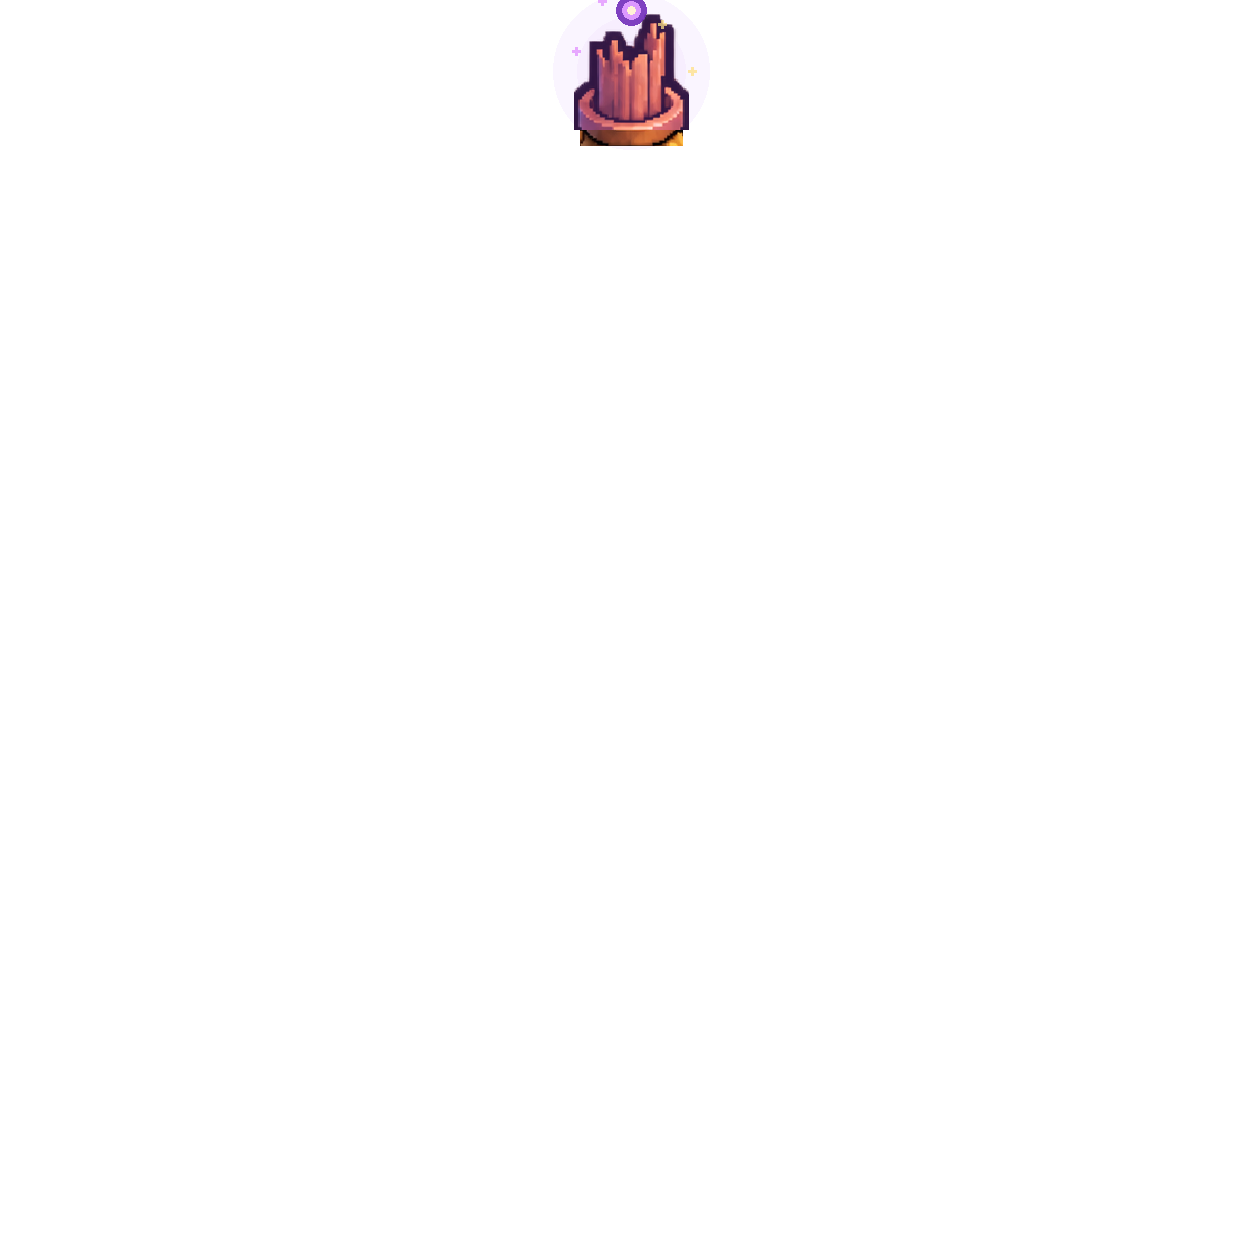
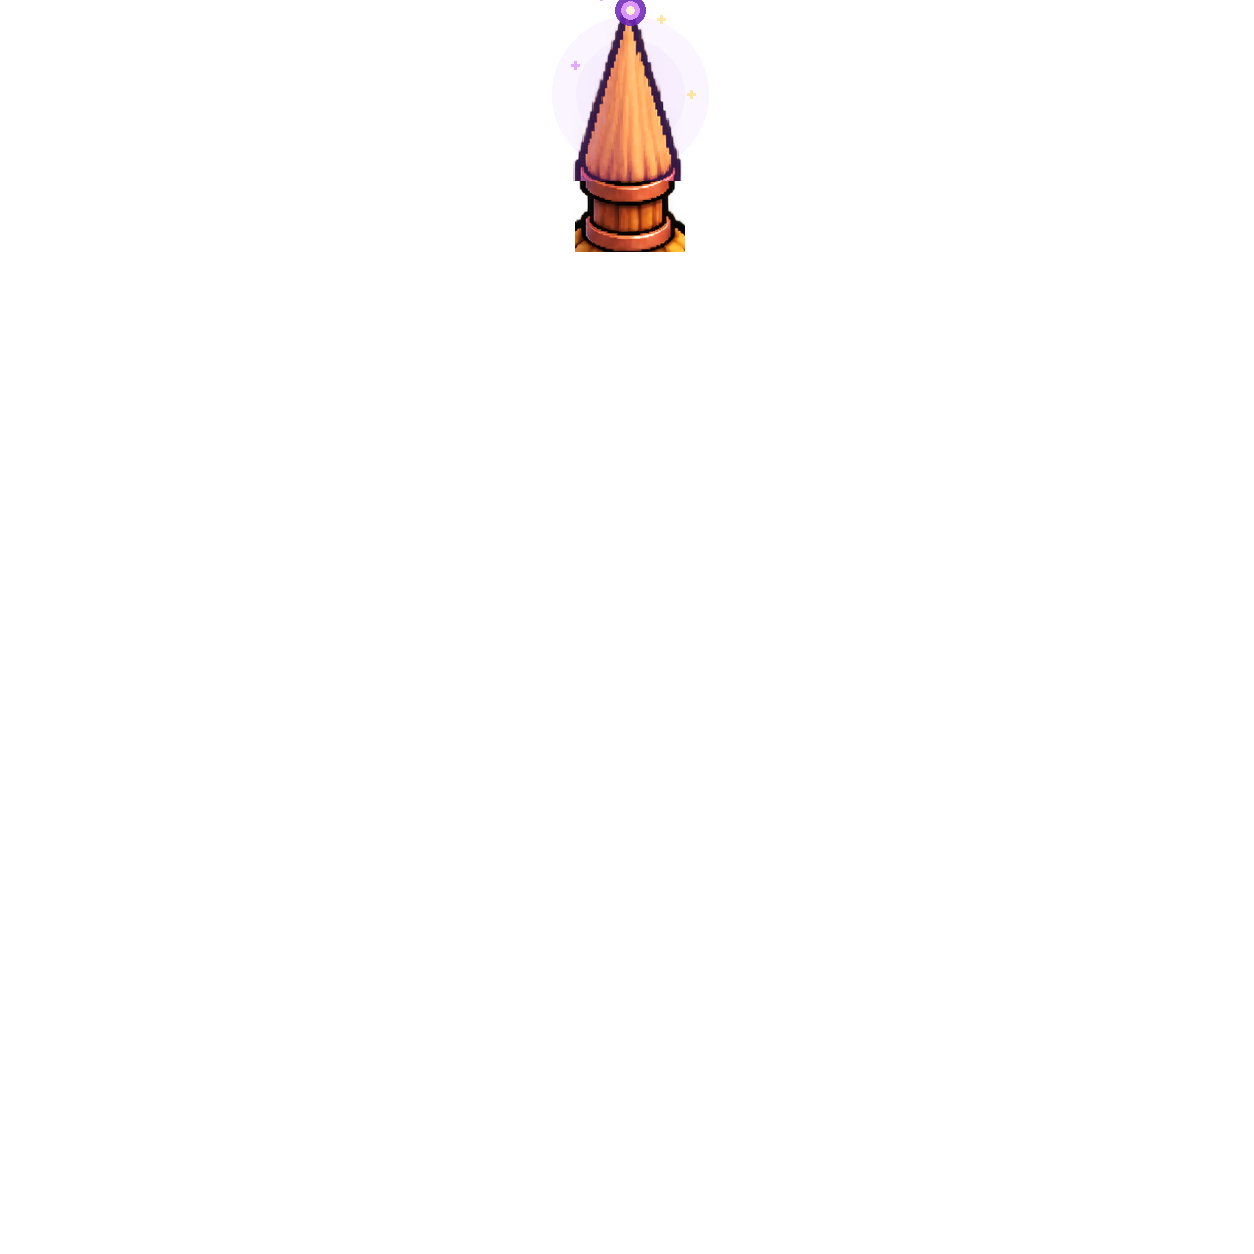
Replace first mage tower with repaired straw stage

Changed region(s): [[0.4354, 0.0, 0.5598, 0.2177]]

diff --git a/game/game.js b/game/game.js
@@ -110,9 +110,9 @@
     {name:'Сланцевая',damage:112,range:286,rate:.48,cost:300}
   ];
   // Mage tower: slower, heavier magic bolts that also splash enemies standing next to the target.
-  // Art: towers/mage/level-N (built from the drawings 0,1,2,3,5 in source/towers/mage).
+  // Art: first mage stage uses the repaired straw tower; stages 2–5 use drawings 1,2,3,5.
   const mageData = [null,
-    {name:'Ветхая',damage:30,range:172,rate:1.45,cost:100,splash:44},
+    {name:'Соломенная',damage:30,range:172,rate:1.45,cost:100,splash:44},
     {name:'Замшелая',damage:48,range:192,rate:1.33,cost:110,splash:52},
     {name:'Чародейская',damage:74,range:212,rate:1.22,cost:160,splash:60},
     {name:'Сланцевая',damage:108,range:232,rate:1.1,cost:230,splash:68},

diff --git a/source/towers/mage/build_modular.py b/source/towers/mage/build_modular.py
@@ -1,8 +1,8 @@
 """Split the five aligned mage sprites into four lossless layers and glow frames.
 
 Editable material lives in source/towers/mage/ (this script, pixel-v3/ drawings,
-modular/ layers and previews). The files the game loads are written to
-game/towers/mage/level-N/, where N is the game level 1–5 (drawings 0,1,2,3,5).
+modular/ layers and previews). Drawings 1,2,3,5 are written to game levels 2–5.
+The old drawing 0 remains in source; build_intermediate_modular.py creates game level 1.
 """
 
 from pathlib import Path
@@ -16,7 +16,7 @@ ROOT = Path(__file__).resolve().parent
 SOURCE = ROOT / "pixel-v3"
 OUTPUT = ROOT / "modular"
 GAME = ROOT.parents[2] / "game" / "towers" / "mage"
-GAME_LEVEL = {0: 1, 1: 2, 2: 3, 3: 4, 5: 5}   # drawing level -> game level
+GAME_LEVEL = {1: 2, 2: 3, 3: 4, 5: 5}   # old drawing 0 is archived in source, not used in game
 SIZE = (1254, 1254)
 LEVELS = (0, 1, 2, 3, 5)
 PARTS = ("01-base.png", "02-upper-room.png", "03-roof.png", "04-crystal.png")
@@ -108,7 +108,10 @@ def split(level):
     source = Image.open(source_path).convert("RGBA")
     if source.size != SIZE:
         raise ValueError(f"Unexpected canvas: {source_path}: {source.size}")
-    pixels = np.asarray(source)
+    pixels = np.asarray(source).copy()
+    # Generated transparent pixels can carry invisible RGB values. Normalize
+    # those bytes so compositing remains exact without changing visible art.
+    pixels[pixels[:, :, 3] == 0, :3] = 0
     y = np.arange(SIZE[1], dtype=np.int16)[:, None]
     config = SEAMS[level]
     roof_edge, base_edge = profile(config["roof"]), profile(config["base"])
@@ -141,13 +144,14 @@ def split(level):
     if not np.array_equal(np.asarray(assembled), pixels):
         raise AssertionError(f"Level {level} did not reassemble pixel for pixel")
     assembled.save(folder / "tower-assembled.png")
-    game = GAME / f"level-{GAME_LEVEL[level]}"
-    game.mkdir(parents=True, exist_ok=True)
-    for image, name in zip(images[:3], ("base.png", "upper.png", "roof.png")):
-        image.save(game / name)
-    for index in range(5):
-        shimmer(images[3], level, index).save(game / f"crystal-{index + 1:02d}.png")
-    assembled.save(game / "tower.png")
+    if level in GAME_LEVEL:
+        game = GAME / f"level-{GAME_LEVEL[level]}"
+        game.mkdir(parents=True, exist_ok=True)
+        for image, name in zip(images[:3], ("base.png", "upper.png", "roof.png")):
+            image.save(game / name)
+        for index in range(5):
+            shimmer(images[3], level, index).save(game / f"crystal-{index + 1:02d}.png")
+        assembled.save(game / "tower.png")
     return {name: bounds(image) for name, image in zip(PARTS, images)}
 
 
@@ -185,7 +189,7 @@ def main():
         "crystal_animation_frames": 5,
         "full_tower_animation_frames": 5,
         "level_0_note": "This earliest tower has a wooden finial rather than a crystal; its fourth layer is static.",
-        "reassembly": "Pixel-identical to each source PNG using the four static parts.",
+        "reassembly": "Pixel-identical after normalizing invisible RGB in fully transparent pixels.",
         "parts_visible_bbox_px_exclusive": records,
     }
     (OUTPUT / "manifest.json").write_text(json.dumps(manifest, ensure_ascii=False, indent=2) + "\n", encoding="utf-8")

diff --git a/source/towers/mage/build_intermediate_modular.py b/source/towers/mage/build_intermediate_modular.py
@@ -7,7 +7,9 @@ import numpy as np
 from PIL import Image, ImageDraw
 
 
-ROOT = Path(__file__).resolve().parent / "modular" / "level-intermediate"
+SOURCE_ROOT = Path(__file__).resolve().parent
+ROOT = SOURCE_ROOT / "modular" / "level-intermediate"
+GAME = SOURCE_ROOT.parents[2] / "game" / "towers" / "mage" / "level-1"
 SOURCE = ROOT / "tower-source.png"
 SIZE = (1254, 1254)
 NAMES = ("01-base.png", "02-upper-room.png", "03-roof.png", "04-spire.png")
@@ -103,6 +105,20 @@ def charge(spire, frame):
     return out
 
 
+def idle(spire, frame):
+    if frame in (0, 4):
+        return spire.copy()
+    strength = (0, .45, 1, .45, 0)[frame]
+    pixels = np.asarray(spire).copy()
+    rgb = pixels[:, :, :3].astype(np.float32)
+    yy = np.arange(SIZE[1])[:, None]
+    straw = (yy < SOCKET_TOP) & (pixels[:, :, 3] > 0) & (rgb[:, :, 0] > 110)
+    rgb[straw] += np.array((7, 4, 2)) * strength
+    pixels[:, :, :3] = np.clip(rgb, 0, 255).astype(np.uint8)
+    pixels[pixels[:, :, 3] == 0, :3] = 0
+    return Image.fromarray(pixels, "RGBA")
+
+
 def main():
     source = Image.open(SOURCE).convert("RGBA")
     if source.size != SIZE:
@@ -118,14 +134,24 @@ def main():
     if not np.array_equal(np.asarray(assembled), np.asarray(source)):
         raise AssertionError("Four parts did not reconstruct the source exactly")
     assembled.save(ROOT / "tower-assembled.png")
+    GAME.mkdir(parents=True, exist_ok=True)
+    for part, name in zip(parts[:3], ("base.png", "upper.png", "roof.png")):
+        part.save(GAME / name)
+    assembled.save(GAME / "tower.png")
 
     strip = Image.new("RGBA", (SIZE[0]*5, SIZE[1]))
     preview = Image.new("RGBA", (240*5, 360), "#20242e")
     for index in range(5):
+        idle_frame = idle(parts[3], index)
+        idle_path = ROOT / "spire-anim" / f"frame-{index+1:02d}.png"
+        idle_path.parent.mkdir(parents=True, exist_ok=True)
+        idle_frame.save(idle_path)
+        idle_frame.save(GAME / f"crystal-{index+1:02d}.png")
         spire = charge(parts[3], index)
         charge_path = ROOT / "spire-charge" / f"frame-{index+1:02d}.png"
         charge_path.parent.mkdir(parents=True, exist_ok=True)
         spire.save(charge_path)
+        spire.save(GAME / f"charge-{index+1:02d}.png")
         tower = Image.new("RGBA", SIZE)
         for part in parts[:3]:
             tower.alpha_composite(part)

diff --git a/source/towers/mage/build_crystal_charge.py b/source/towers/mage/build_crystal_charge.py
@@ -8,7 +8,7 @@ from PIL import Image, ImageDraw
 
 ROOT = Path(__file__).resolve().parent
 GAME = ROOT.parents[2] / "game" / "towers" / "mage"
-LEVELS = {0: 1, 1: 2, 2: 3, 3: 4, 5: 5}
+LEVELS = {0: None, 1: 2, 2: 3, 3: 4, 5: 5}
 SOCKET_TOP = {0: 130, 1: 147, 2: 119, 3: 173, 5: 198}
 SCALES = (1.0, 1.08, 1.17, 1.27, 1.12)
 ENERGY = (0.0, 0.23, 0.46, 0.76, 1.0)
@@ -80,13 +80,15 @@ def main() -> None:
         original = Image.open(src).convert("RGBA")
         output = ROOT / "modular" / f"level-{source_level}" / "crystal-charge"
         output.mkdir(parents=True, exist_ok=True)
-        game = GAME / f"level-{game_level}"
-        game.mkdir(parents=True, exist_ok=True)
+        game = GAME / f"level-{game_level}" if game_level else None
+        if game:
+            game.mkdir(parents=True, exist_ok=True)
         sheet = Image.new("RGBA", (original.width * 5, original.height))
         for frame in range(5):
             image = charge_frame(original, source_level, frame)
             image.save(output / f"frame-{frame+1:02d}.png")
-            image.save(game / f"charge-{frame+1:02d}.png")
+            if game:
+                image.save(game / f"charge-{frame+1:02d}.png")
             sheet.alpha_composite(image, (frame * original.width, 0))
         sheet.save(output / "sheet.png")
     print("Created five transparent charge frames for all five mage towers.")

diff --git a/source/towers/mage/modular/README.md b/source/towers/mage/modular/README.md
@@ -9,8 +9,8 @@
 
 При наложении в этом порядке получается `tower-assembled.png`, пиксель в пиксель равный исходному изображению из `../pixel-v3/`. Для кристалла есть пять кадров мерцания в `crystal-anim/`, а в `tower-anim/` — пять готовых кадров всей башни со свечением окон и кристалла. Штандарт остаётся неподвижным. Первый и последний кадры совпадают и образуют плавный цикл. В игре анимация идёт с частотой 6 кадров/с; системная настройка уменьшения движения останавливает её на первом кадре.
 
-При выстреле все пять игровых уровней используют `crystal-charge/frame-01.png` … `frame-05.png`: верхушка расширяется и формирует магический сгусток. На уровне 0 заряжается деревянное навершие. Кадры скопированы в `../../game/level-N/charge-01.png` … `charge-05.png`. После пятого кадра из верхушки вылетает `magic-orb-v2`, а при попадании запускается `magic-ground-v2`.
+При выстреле верхушка расширяется и формирует магический сгусток в `crystal-charge/frame-01.png` … `frame-05.png`. Рисунок `level-0` и его деревянное навершие сохранены как прежний первый уровень, но сейчас не используются в игре. Игровой первый уровень находится в `level-intermediate/`; рисунки `level-1`, `level-2`, `level-3`, `level-5` соответствуют игровым уровням 2–5. После пятого кадра из верхушки вылетает магический снаряд, а при попадании запускается удар по земле.
 
 Команды для воспроизведения файлов: `python ../build_modular.py`, затем `python ../build_crystal_charge.py` (нужны Pillow и NumPy).
 
-Промежуточная деревянная башня с соломенным шпилем находится в `level-intermediate/`. Её макет, четыре слоя и пять кадров зарядки собраны отдельно командой `python ../build_intermediate_modular.py`.
+Промежуточная деревянная башня с соломенным шпилем находится в `level-intermediate/`. Её макет, четыре слоя и пять кадров зарядки собраны командой `python ../build_intermediate_modular.py`, которая также записывает игровой уровень 1.

diff --git a/source/towers/mage/modular/level-intermediate/README.md b/source/towers/mage/modular/level-intermediate/README.md
@@ -4,6 +4,8 @@
 
 `parts/` содержит четыре прозрачных слоя на холсте 1254 × 1254: основание, верхний ярус, крышу и шпиль. Их наложение даёт `tower-assembled.png`, совпадающий с макетом пиксель в пиксель.
 
-`spire-charge/frame-01.png` … `frame-05.png` — пять кадров удара только для слоя шпиля, выровненных с остальными слоями. `tower-charge/` содержит собранную башню с этими кадрами. Первый кадр идентичен статическому макету. После пятого кадра можно запускать `magic-orb-v2`, затем `magic-ground-v2` при попадании.
+`spire-charge/frame-01.png` … `frame-05.png` — пять кадров удара только для слоя шпиля, выровненных с остальными слоями. Анимация повторяет паттерн `../level-1/crystal-charge`: расширение и подъём верхушки, фиолетовое окрашивание, ореол, искры и сгусток в последнем кадре. Высота ограничена свободным местом над соломенным шпилем, чтобы его остриё не обрезалось. `tower-charge/` содержит собранную башню с этими кадрами. Первый кадр идентичен статическому макету. После пятого кадра можно запускать `magic-orb-v2`, затем `magic-ground-v2` при попадании.
+
+Сейчас это **первый уровень башни мага в игре**. Сборщик записывает `base.png`, `upper.png`, `roof.png`, `tower.png`, пять кадров спокойного свечения `crystal-*.png` и пять кадров зарядки `charge-*.png` в `game/towers/mage/level-1/`. Прежний первый уровень сохранён в `../level-0/` и в игру не загружается.
 
 Пересборка: `python ../../build_intermediate_modular.py` (Pillow и NumPy).

diff --git a/README.md b/README.md
@@ -45,8 +45,9 @@ source/
 | --- | --- |
 | `towers/archers/level-N.png` | `python -I source/tools/strip_flag.py tower-01-thatched.png tower-02-wooden-roof.png …` |
 | `towers/archers/pennant/level-N/` | `python -I source/tools/upgrade_pennant.py N <модуль 04-pennant.png> source/towers/archers/pennants/level-N/pennant.png`, затем `python -I source/tools/make_pennant.py source/towers/archers/pennants/level-N/pennant.png game/towers/archers/pennant/level-N` |
-| `towers/mage/level-N/` слои и кристалл | `python -I source/towers/mage/build_modular.py` (рисунки 0, 1, 2, 3, 5 → уровни 1–5) |
-| `towers/mage/level-N/charge-*` | `python -I source/towers/mage/build_crystal_charge.py` |
+| `towers/mage/level-1/` соломенная башня со шпилем | `python -I source/towers/mage/build_intermediate_modular.py` |
+| `towers/mage/level-2…5/` слои и кристалл | `python -I source/towers/mage/build_modular.py` (рисунки 1, 2, 3, 5 → уровни 2–5) |
+| `towers/mage/level-2…5/charge-*` | `python -I source/towers/mage/build_crystal_charge.py` |
 | `effects/magic-orb`, `effects/magic-ground` | `python -I source/effects/build_magic_effects.py` |
 | `map-anim/*` | `source/tools/make_waterfall.py`, `make_flags.py`, `make_tree.py`, `make_arch.py` (пишут в `game/map-anim/`) |
 
